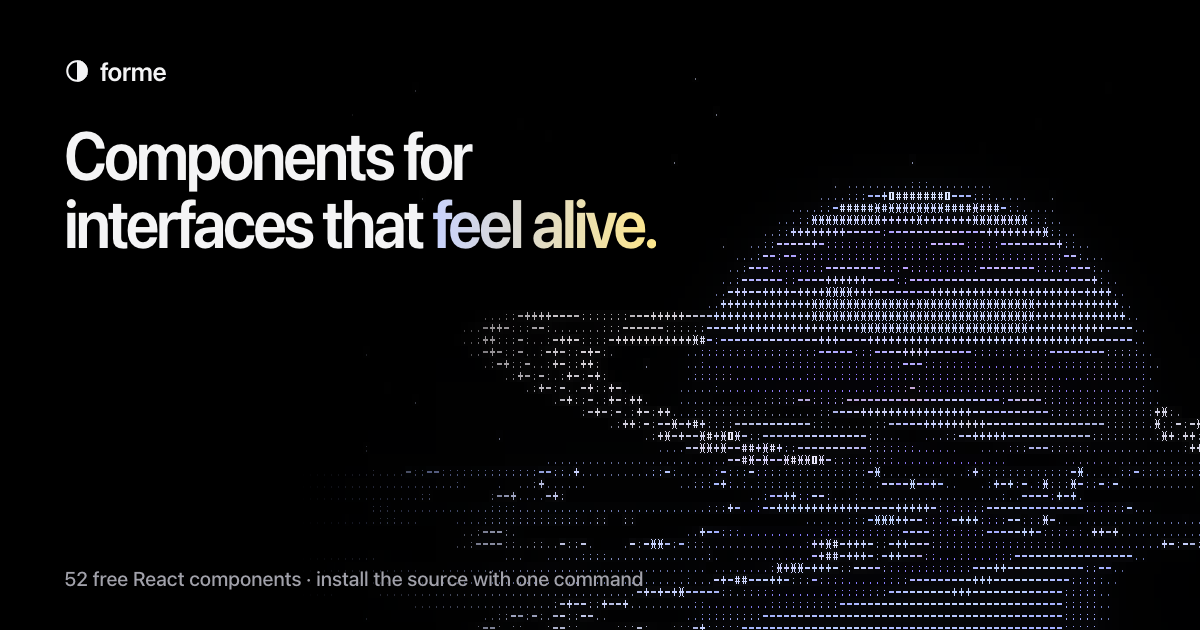
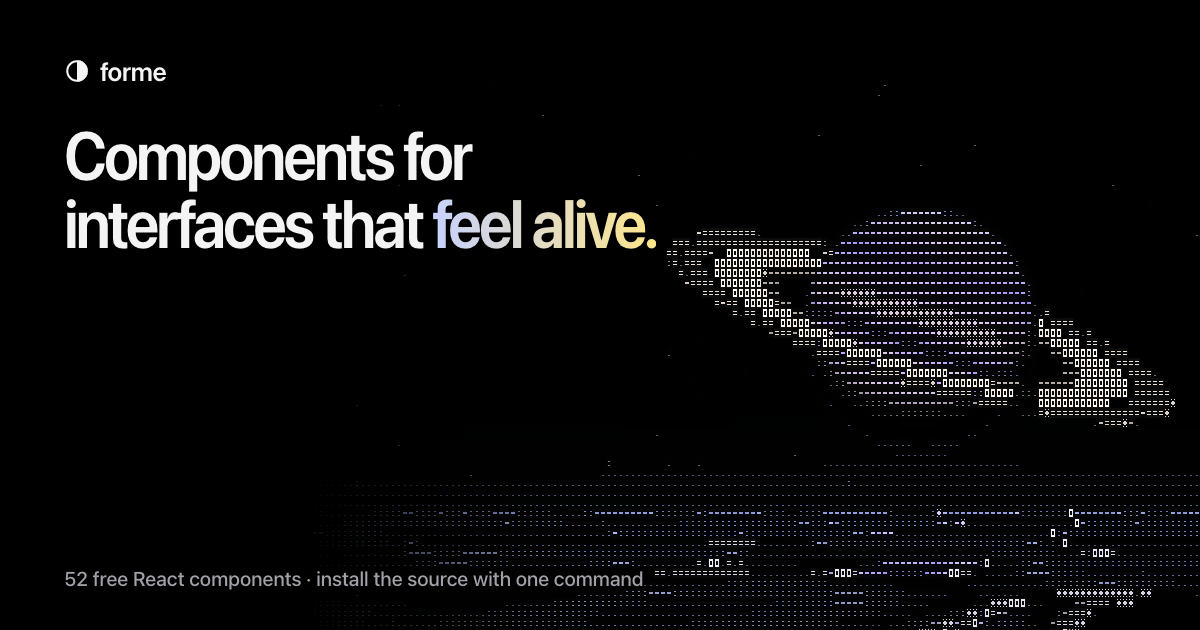
ASCII planet: a proper Saturn, denser glyphs (#15)
* ASCII planet: a proper Saturn, denser crisp glyphs

- Planet floats fully above the sea with tilted axis bands, limb darkening,
  and a soft terminator; ring has C, B, Cassini division, A, and Encke gap,
  passes in front of the disc, and takes the planet's shadow on its far side
- Glyph cells sized in CSS pixels at device resolution (maxPixelRatio 2), whole
  pixels only, with a larger cell below 1.5x so glyphs stay legible
- ShaderCanvas: optional maxPixelRatio and a u_ratio uniform
- Regenerated social preview

* Footer: Saturn rises beside the closing line instead of a separate strip

The planet scene is the background of the footer's closing block, bleeding to
the right edge and fading in behind the headline; its sea ends at the divider so
the link columns sit on plain black. Headline and buttons stack on the left.

diff --git a/src/registry/planet-shader.tsx b/src/registry/planet-shader.tsx
@@ -9,20 +9,34 @@ precision highp float;
 #else
 precision mediump float;
 #endif
-uniform vec2 u_resolution; uniform vec2 u_mouse; uniform float u_time; uniform vec3 u_color;
-const vec2 CELL = vec2(7.0, 12.0);
-const float HORIZON = -0.16;
+uniform vec2 u_resolution; uniform vec2 u_mouse; uniform float u_time; uniform vec3 u_color; uniform float u_ratio;
+// Cell size in CSS pixels; the canvas renders at device resolution so small glyphs stay crisp.
+const vec2 CELL_CSS = vec2(4.5, 7.5);
+// Whole device pixels, so every glyph lands on the pixel grid. Below 1.5x there are too
+// few pixels to draw a glyph that small, so standard screens use a slightly larger cell.
+#define CELL (u_ratio>1.5?floor(CELL_CSS*u_ratio+.5):vec2(6.,10.))
+const float HORIZON = -0.24;
 float hash(vec2 p){vec3 q=fract(vec3(p.xyx)*.1031);q+=dot(q,q.yzx+33.33);return fract((q.x+q.y)*q.z);}
 float noise(vec2 p){vec2 i=floor(p),f=fract(p);f=f*f*(3.-2.*f);
  return mix(mix(hash(i),hash(i+vec2(1,0)),f.x),mix(hash(i+vec2(0,1)),hash(i+vec2(1,1)),f.x),f.y);}
 float fbm(vec2 p){float v=0.,a=.5;for(int i=0;i<4;i++){v+=a*noise(p);p*=2.03;a*=.5;}return v;}
 mat2 rot(float a){float c=cos(a),s=sin(a);return mat2(c,-s,s,c);}
 
-vec3 violet=vec3(.33,.27,.62), pale=vec3(.78,.82,1.0), amber=vec3(1.0,.86,.55);
-const vec2 PLANET=vec2(0.0,HORIZON+.06);
-const float R=.4;
+vec3 violet=vec3(.33,.27,.62), pale=vec3(.84,.86,1.0), amber=vec3(1.0,.84,.56);
+const vec2 PLANET=vec2(0.0,HORIZON+.31);
+const float R=.2;
+const float TILT=-.3;
 
-vec3 lightDir(){return normalize(vec3((u_mouse.x-.5)*2.6,.55,.7));}
+vec3 lightDir(){return normalize(vec3((u_mouse.x-.5)*2.6,.5,.75));}
+
+// Brightness across the ring, from its inner edge (0) to its outer edge (1): a faint inner
+// ring, the bright main ring, the dark Cassini division, then the outer ring with a thin gap.
+float ringProfile(float r){
+ float c=smoothstep(.0,.05,r)*smoothstep(.2,.16,r)*.35;
+ float b=smoothstep(.16,.2,r)*smoothstep(.6,.58,r)*(.85+.15*sin(r*60.));
+ float a=smoothstep(.65,.67,r)*smoothstep(1.,.97,r)*.62*(1.-.8*smoothstep(.85,.86,r)*smoothstep(.88,.87,r));
+ return c+b+a;
+}
 
 // Everything above the waterline: stars, horizon glow, the planet, and its ring.
 vec3 sky(vec2 p, vec2 cell){
@@ -30,36 +44,45 @@ vec3 sky(vec2 p, vec2 cell){
  vec3 L=lightDir(), ice=u_color, col=vec3(0.0);
  vec2 c=PLANET;
  float s=hash(cell);
- col+=step(.985,s)*(.35+.3*sin(t*1.6+s*60.))*vec3(.85,.88,1.);
- col+=ice*.22*exp(-max(p.y-HORIZON,0.)*9.)*(.6+.4*exp(-abs(p.x-c.x)*1.4));
- vec2 q=(p-c)/R;
+ col+=step(.986,s)*(.3+.3*sin(t*1.6+s*60.))*vec3(.85,.88,1.);
+ col+=ice*.2*exp(-max(p.y-HORIZON,0.)*9.)*(.6+.4*exp(-abs(p.x-c.x)*1.4));
+ // Planet frame: x along the ring, y along the spin axis.
+ vec2 q=rot(TILT)*(p-c)/R;
  float r2=dot(q,q);
- // Ring, tilted; its back half hides behind the planet.
- vec2 rq=rot(-.2)*(p-c);
- float e=length(vec2(rq.x/(R*2.05),rq.y/(R*.34)));
- float band=smoothstep(.66,.7,e)*smoothstep(1.0,.95,e)*(.72+.28*sin(e*90.))*(1.-.6*smoothstep(.8,.84,e)*smoothstep(.88,.84,e));
- bool behind=rq.y>0.0 && r2<1.0;
- float ringLight=.6+.4*clamp(.5+.5*dot(normalize(vec3(rq.x,0.,.4)),L),0.,1.);
+ // The ring plane, seen from slightly above: inner edge 1.25R, outer edge 2.3R.
+ float e=length(vec2(q.x,q.y/.22));
+ float ringR=(e-1.25)/(2.3-1.25);
+ float ring=ringR>0.&&ringR<1.?ringProfile(ringR):0.;
+ bool behind=q.y>0.0 && r2<1.0;
  if(r2<1.0){
   float z=sqrt(1.-r2);
-  vec3 n=vec3(q,z);
-  float diff=max(dot(n,L),0.);
-  // Cloud bands drift with latitude; turbulence bends them.
-  float lon=atan(q.x,z)+t*.04;
+  vec3 n=vec3(rot(-TILT)*q,z);
+  float diff=smoothstep(-.08,.5,dot(n,L));
+  // Soft latitude bands that drift slowly, darker toward the limb.
   float lat=q.y;
-  float b=sin(lat*13.+fbm(vec2(lon*2.4,lat*5.)+t*.03)*3.2);
-  vec3 surf=mix(violet,pale,.5+.5*b);
-  surf=mix(surf,amber,smoothstep(.55,1.,fbm(vec2(lon*4.,lat*9.)))*.55);
-  // The ring's shadow falls across the disc.
-  float shadow=1.-.65*smoothstep(.06,.0,abs(q.y+.05+q.x*.2))*step(0.,L.y);
-  col=surf*(.03+.78*diff)*shadow;
-  col+=ice*pow(1.-z,3.)*(.2+.7*diff);
+  float lon=atan(q.x,z)+t*.05;
+  float b=sin(lat*8.+fbm(vec2(lon*1.5,lat*3.)+t*.02)*1.3)*.5+sin(lat*21.)*.12;
+  vec3 surf=mix(mix(pale,amber,.45),violet*1.3,.5-.5*b);
+  surf=mix(surf,pale,smoothstep(.75,1.,lat)*.5);
+  // The ring throws a thin shadow across the disc just below its line.
+  float shade=1.-.55*smoothstep(.07,.0,abs(q.y+.16+q.x*.05))*step(.2,diff);
+  col=surf*(.03+.72*diff)*pow(z,.3)*shade;
+  col+=ice*pow(1.-z,4.)*.35*diff;
  } else {
   float d=sqrt(r2)-1.;
-  float lit=max(dot(vec3(normalize(q),0.),L),0.);
-  col+=ice*exp(-d*14.)*(.12+.8*lit);
+  float lit=max(dot(vec3(rot(-TILT)*normalize(q),0.),L),0.);
+  col+=ice*exp(-d*22.)*(.08+.55*lit);
  }
- if(!behind) col+=mix(pale,amber,.35)*band*ringLight*.7;
+ if(!behind && ring>0.){
+  // The planet's shadow falls on the far side of the ring, away from the light.
+  vec2 toPlanet=q;
+  vec2 away=normalize((rot(TILT)*-L.xy)+1e-4);
+  float along=dot(toPlanet,away);
+  float across=length(toPlanet-away*along);
+  float planetShadow=r2>1.&&along>0.&&across<1.?.15:1.;
+  vec3 ringCol=mix(mix(pale,amber,.45),vec3(1.),.25);
+  col=mix(col,ringCol*(.3+.95*ring)*planetShadow,clamp(ring*1.7,0.,1.));
+ }
  return col;
 }
 
@@ -130,7 +153,8 @@ void main(){
  vec2 p=(center-.5*u_resolution)/u_resolution.y;
  vec3 col=scene(p,cell);
  float lum=dot(col,vec3(.3,.59,.11));
- float level=floor(clamp(lum*1.05,0.,1.)*7.99);
+ // Lift the midtones so lit surfaces fill with denser glyphs.
+ float level=floor(pow(clamp(lum*1.05,0.,1.),.78)*7.99);
  float g=glyph(fract(gl_FragCoord.xy/CELL),level);
  vec3 tone=mix(col/max(lum,.04)*.8,vec3(1.),clamp((lum-.7)*2.,0.,.6));
  vec3 o=tone*g*clamp(.35+lum*1.4,0.,1.)+col*.06;
@@ -146,5 +170,5 @@ export function PlanetShader({
   speed?: number;
   label?: string;
 }) {
-  return <ShaderCanvas fragment={fragment} color={color} speed={speed} label={label} />;
+  return <ShaderCanvas fragment={fragment} color={color} speed={speed} label={label} maxPixelRatio={2} />;
 }

diff --git a/src/registry/shader-canvas.tsx b/src/registry/shader-canvas.tsx
@@ -10,6 +10,8 @@ export interface ShaderCanvasProps {
   interactive?: boolean;
   /** Up to four extra colors, read in the shader as u_palette[0..3]. */
   palette?: string[];
+  /** Cap on device pixels per CSS pixel; raise it for fine detail such as glyphs. Read as u_ratio. */
+  maxPixelRatio?: number;
 }
 const toRgb = (color: string) => {
   const hex = /^#[0-9a-f]{6}$/i.test(color) ? color : "#5376ff";
@@ -24,6 +26,7 @@ export function ShaderCanvas({
   label = "Interactive shader",
   interactive = true,
   palette = [],
+  maxPixelRatio = 1.25,
 }: ShaderCanvasProps) {
   const canvas = useRef<HTMLCanvasElement>(null);
   const live = useRef({ rgb: toRgb(color), palette: [] as number[], speed, redraw: () => {} });
@@ -104,7 +107,9 @@ export function ShaderCanvas({
       time = gl.getUniformLocation(program, "u_time"),
       mouse = gl.getUniformLocation(program, "u_mouse"),
       tint = gl.getUniformLocation(program, "u_color"),
-      paletteAt = gl.getUniformLocation(program, "u_palette");
+      paletteAt = gl.getUniformLocation(program, "u_palette"),
+      ratioAt = gl.getUniformLocation(program, "u_ratio");
+    let ratio = 1;
     const render = () => {
       if (disposed || gl.isContextLost()) return;
       const { rgb } = live.current;
@@ -114,6 +119,7 @@ export function ShaderCanvas({
       gl.uniform2f(mouse, pointer[0], pointer[1]);
       gl.uniform3f(tint, rgb[0], rgb[1], rgb[2]);
       if (paletteAt) gl.uniform3fv(paletteAt, live.current.palette);
+      if (ratioAt) gl.uniform1f(ratioAt, ratio);
       gl.drawArrays(gl.TRIANGLES, 0, 6);
     };
     const draw = (now: number) => {
@@ -138,7 +144,7 @@ export function ShaderCanvas({
     live.current.redraw = render;
     const resize = new ResizeObserver(() => {
       const r = node.getBoundingClientRect();
-      const ratio = Math.min(devicePixelRatio || 1, 1.25);
+      ratio = Math.min(devicePixelRatio || 1, Math.max(1, Math.min(maxPixelRatio, 3)));
       node.width = Math.max(1, Math.round(r.width * ratio));
       node.height = Math.max(1, Math.round(r.height * ratio));
       render();
@@ -192,7 +198,7 @@ export function ShaderCanvas({
       media.removeEventListener("change", start);
       if (!gl.isContextLost()) release();
     };
-  }, [fragment, revision, interactive]);
+  }, [fragment, revision, interactive, maxPixelRatio]);
   // Paused or reduced-motion canvases still reflect a new color immediately.
   useEffect(() => live.current.redraw(), [color, palette.join()]);
   return (

diff --git a/src/styles.css b/src/styles.css
@@ -1085,13 +1085,19 @@ main:focus {
   background: radial-gradient(60% 50% at 50% 100%, rgb(129 140 248 / 0.07), transparent 70%);
 }
 .footer-cta {
+  position: relative;
   display: flex;
-  flex-wrap: wrap;
-  align-items: flex-end;
-  justify-content: space-between;
-  gap: 28px;
-  padding: 88px 0 72px;
+  flex-direction: column;
+  align-items: flex-start;
+  justify-content: center;
+  gap: 32px;
+  min-height: clamp(480px, 46vw, 660px);
+  padding: 72px 0;
   border-bottom: 1px solid var(--line);
+}
+.footer-cta > :not(.footer-art) {
+  position: relative;
+  z-index: 1;
 }
 .footer-cta h2 {
   max-width: 14ch;
@@ -1148,12 +1154,25 @@ main:focus {
   color: var(--ink-3);
   font-size: 13px;
 }
-/* Full-bleed art at the very end; its top fades into the footer. */
+/* The scene fills the right of the closing block and bleeds to the viewport edge,
+   fading in from the left behind the headline and out at the top and bottom. */
 .footer-art {
-  height: clamp(340px, 46vw, 680px);
-  margin-top: 8px;
-  -webkit-mask-image: linear-gradient(transparent, #000 22%);
-  mask-image: linear-gradient(transparent, #000 22%);
+  position: absolute;
+  top: 0;
+  bottom: 0;
+  left: 26%;
+  right: calc((100vw - 100%) / -2);
+  z-index: 0;
+  -webkit-mask-image: linear-gradient(90deg, transparent, #000 30%), linear-gradient(transparent, #000 14%, #000 92%, transparent);
+  -webkit-mask-composite: source-in;
+  mask-image: linear-gradient(90deg, transparent, #000 30%), linear-gradient(transparent, #000 14%, #000 92%, transparent);
+  mask-composite: intersect;
+}
+@media (max-width: 860px) {
+  .footer-art {
+    left: -30%;
+    opacity: 0.55;
+  }
 }
 @media (max-width: 860px) {
   .footer-grid {

diff --git a/src/ui.tsx b/src/ui.tsx
@@ -252,6 +252,10 @@ export function Footer() {
     <footer className="footer">
       <div className="shell">
         <div className="footer-cta">
+          {/* Saturn rises behind the closing line, its sea ending at the divider. */}
+          <div className="footer-art">
+            <PlanetShader />
+          </div>
           <h2>Make something people remember.</h2>
           <div className="footer-cta-actions">
             <a className="btn" href="/components/">
@@ -302,9 +306,6 @@ export function Footer() {
           </nav>
         </div>
         <p className="footer-legal">© {new Date().getFullYear()} Forme</p>
-      </div>
-      <div className="footer-art">
-        <PlanetShader />
       </div>
     </footer>
   );
